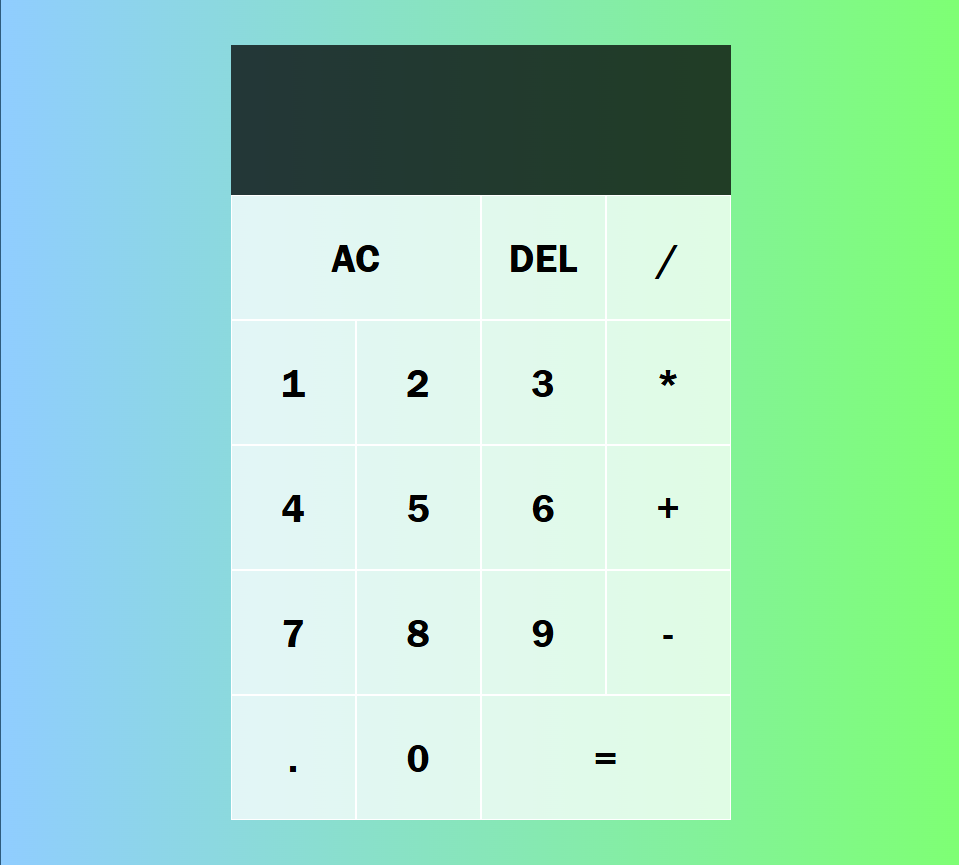
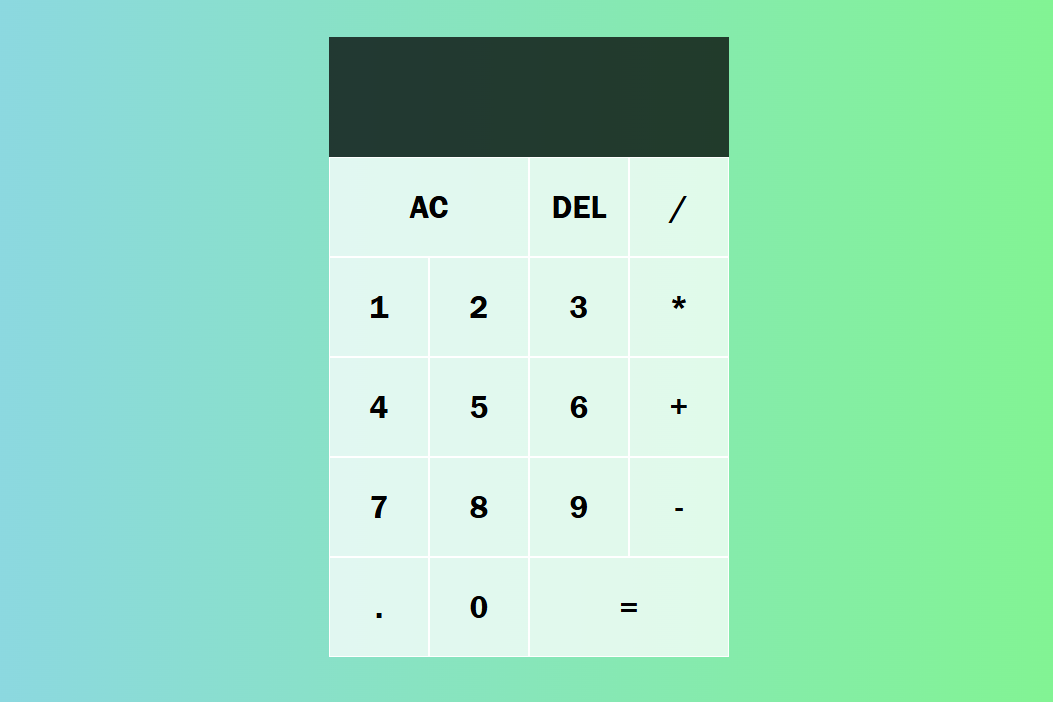
add the rest of the images and integrate them into the code

diff --git a/projects-page.html b/projects-page.html
@@ -42,7 +42,8 @@
         </section>
 
             <div id="beginner-projects" class="center-wrapper">
-                <img src="portfolio_photos/beginner-projects.png" alt="Beginner JS Projects" class="project-image">
+                <img src="portfolio_photos/calculator.png" alt="Beginner JS Projects" class="project-image">
+                <img src="portfolio_photos/memory-game.png" alt="Beginner JS Projects" class="project-image">
                 <a href="https://github.com/JyMeister/beginner-projects" target="_blank">Beginner JS Projects</a>
             </div>
 
